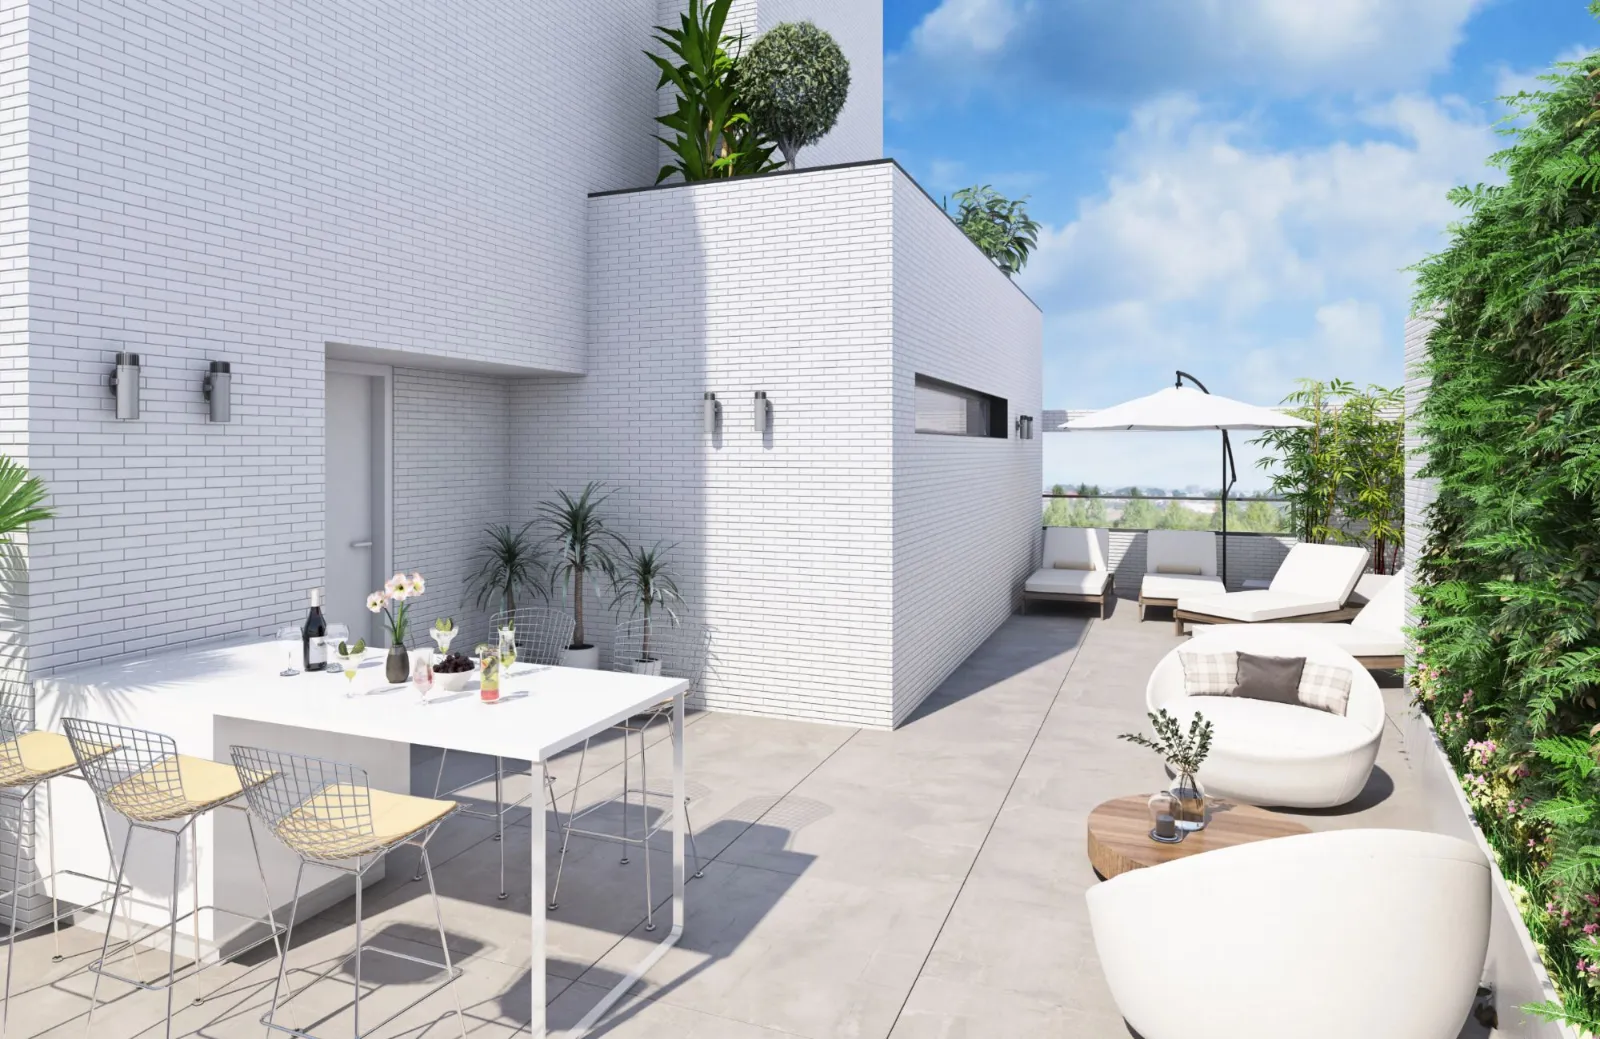
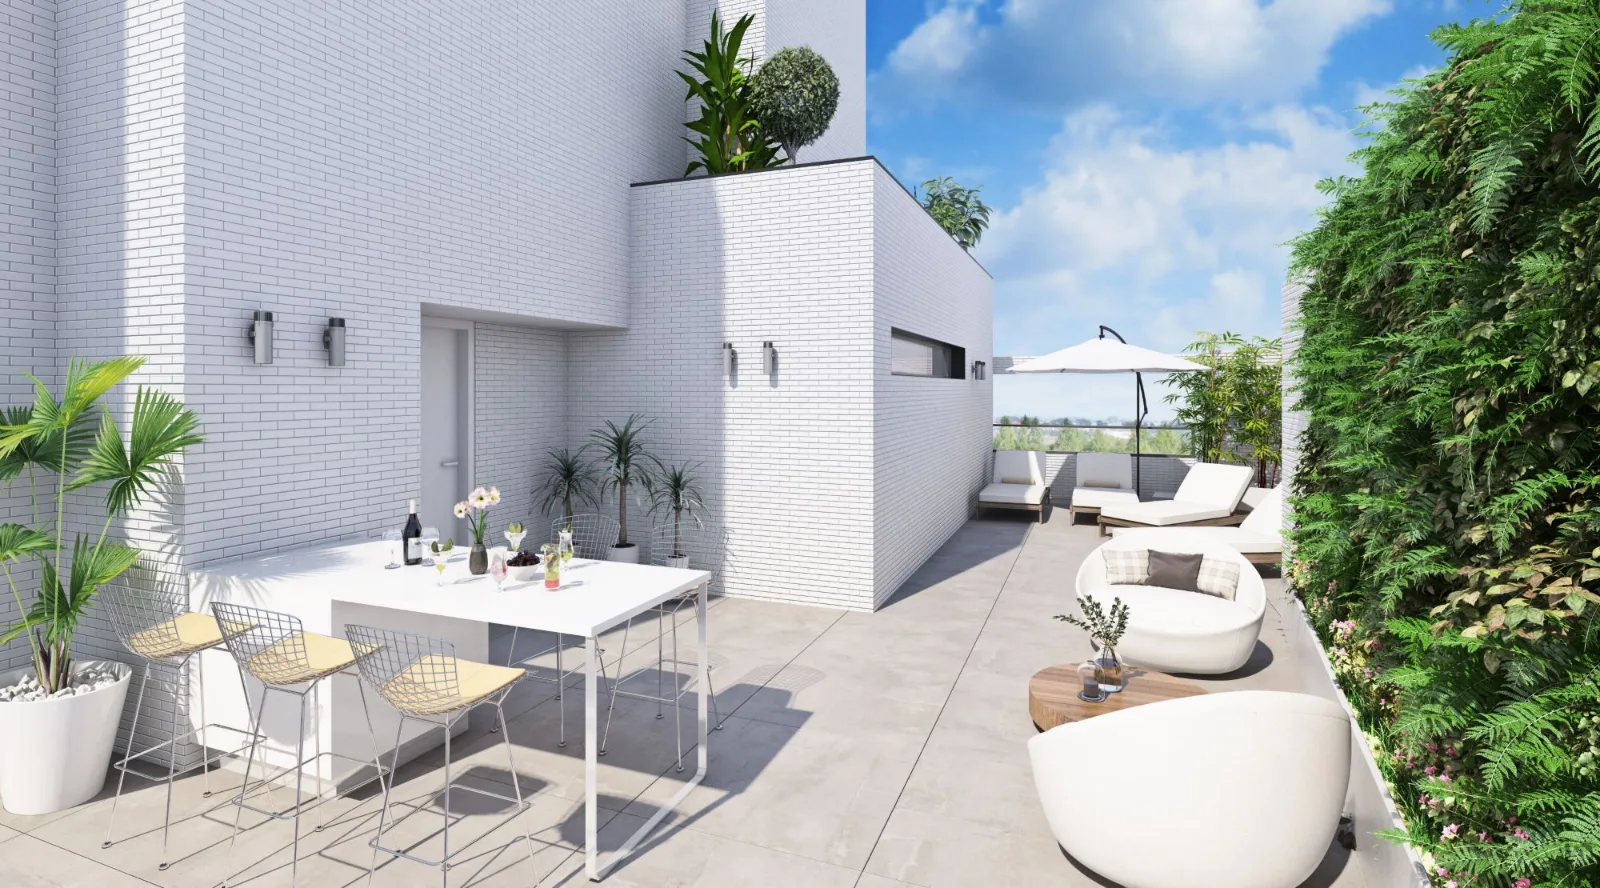
Track Record: cinco fotos nuevas en alta, optimizadas para pantalla completa
Sustituyen a las de Mandarín Oriental, Rambla Catalunya, Embajadores, Arturo
Soria y Halia, con sus proporciones originales. Cada una va en WebP en dos
tamaños, 1600 px y el ancho original (2000 px; 1920 la de Halia), con la
calidad ajustada por foto (PSNR de 37 a 40 dB frente al original, sin diferencia
visible al 100 %). Pasan de 330-450 KB a 100-290 KB en pantallas normales.
Medhills sigue con su foto de 840 px a la espera de la nueva.

Claude-Session: https://claude.ai/code/session_01G3Cgp3HsQKuGBU9X1aExc9

diff --git a/producto.html b/producto.html
@@ -310,7 +310,7 @@
               </div>
             </article>
             <article class="track-full__slide">
-              <img class="track-full__img" src="assets/img/trackrecord-malaga-2.jpg" alt="Halia, Málaga" decoding="async">
+              <img class="track-full__img" src="assets/img/trackrecord-malaga-2.webp" srcset="assets/img/trackrecord-malaga-2.webp 1600w, assets/img/trackrecord-malaga-2-2x.webp 1920w" sizes="100vw" alt="Halia, Málaga" decoding="async">
               <div class="track-full__text">
               <p class="track-full__label">Track Record</p>
               <p class="track-full__name">Halia</p>
